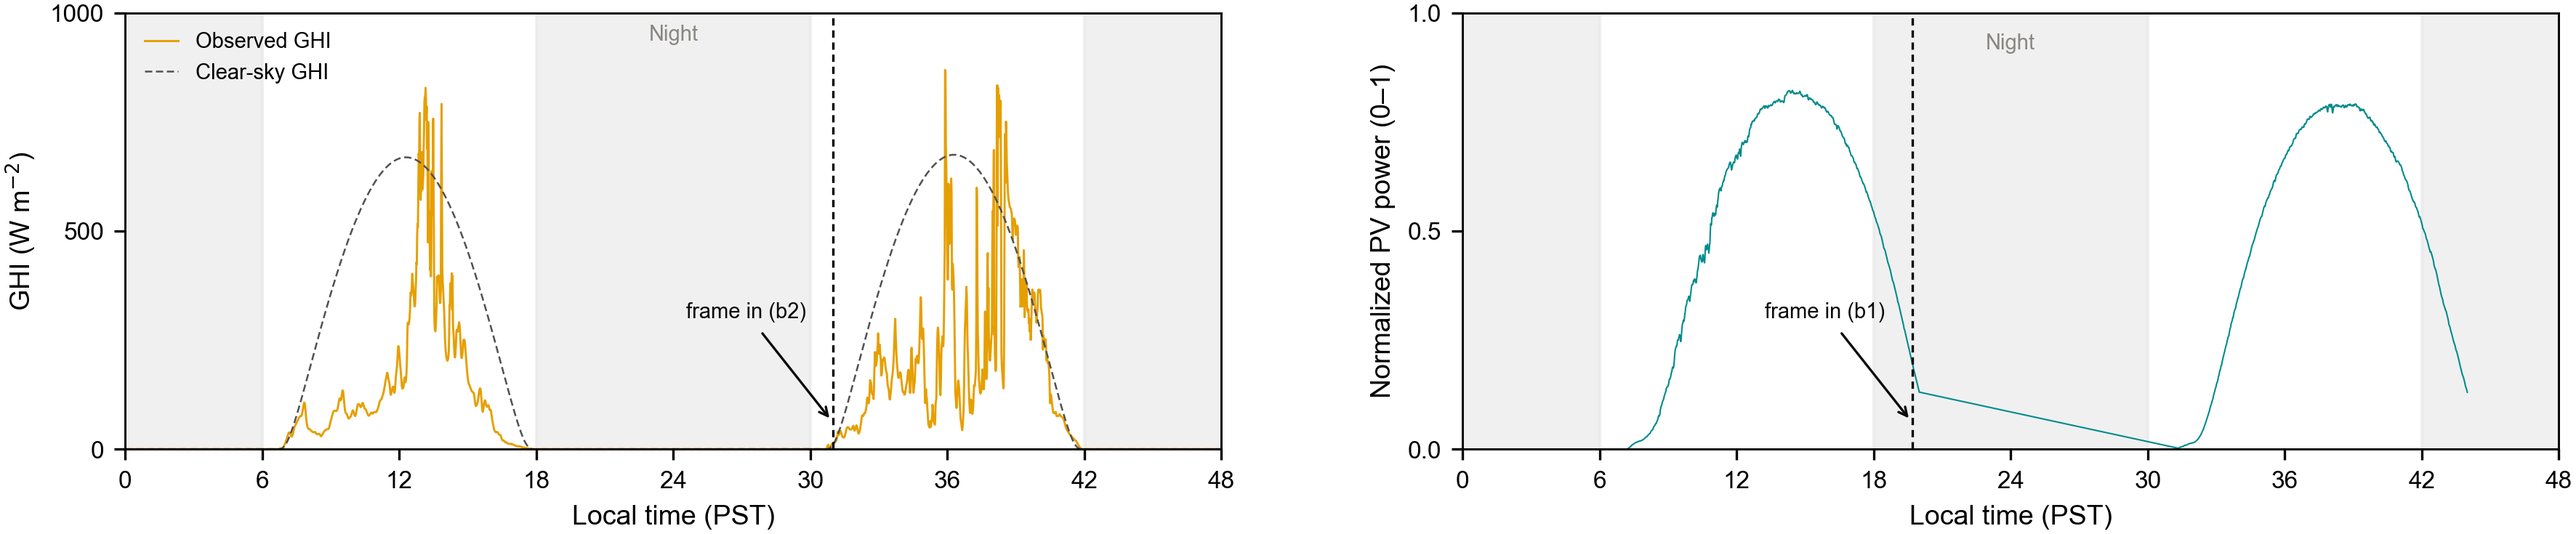
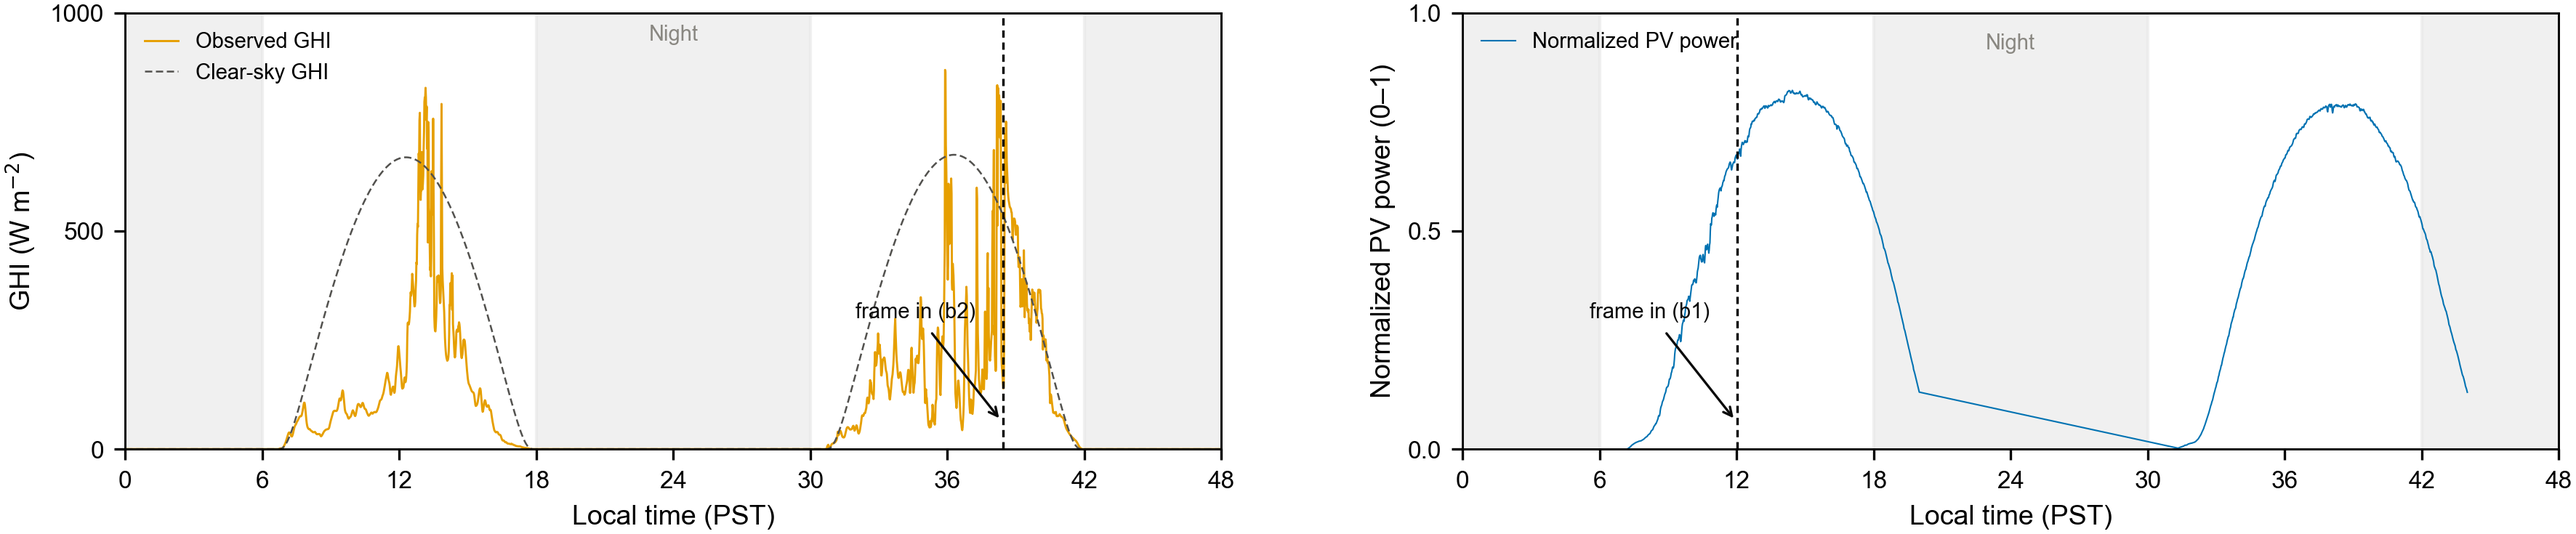
viz(essd): fig01 (c) marker corrections — c1 arrow at the true day-2 GHI crash h=38.43 (811->150 W/m2, 2014-02-27 22:26 UTC); c2 arrow moved to a daylight PV trough h=12.03 (2018-06-10 19:01 UTC, outside night bands); c2 line house blue #0072B2 + upper-left legend
Co-Authd-By: Claude <noreply@anthropic.com>

diff --git a/scripts/export_fig01_panels.py b/scripts/export_fig01_panels.py
@@ -122,7 +122,7 @@ axc1.plot(fxh, fw["ghi_actual"].to_numpy(), color=V.DS_COLORS["folsom"],
           lw=0.7, label="Observed GHI")
 axc1.plot(fxh, fw["ghi_clearsky"].to_numpy(), color=V.INK_2, lw=0.6,
           ls=(0, (4, 2)), label="Clear-sky GHI")
-_frame_marker(axc1, 31.0, "frame in (b2)")
+_frame_marker(axc1, 38.43, "frame in (b2)")
 axc1.set_ylabel(r"GHI (W m$^{-2}$)")
 axc1.set_ylim(0, 1000); axc1.set_yticks([0, 500, 1000])
 axc1.set_xlim(0, 48); axc1.set_xticks(np.arange(0, 49, 6))
@@ -140,11 +140,12 @@ _night(axc2)
 axc2.text(24, 0.93, "Night", ha="center", va="center", fontsize=7,
           color=V.INK_MUTED)
 axc2.plot(sxh, sw["pv_power_normalized"].astype(float).to_numpy(),
-          color=TEAL, lw=0.5, label="Normalized PV power")
-_frame_marker(axc2, 19.7, "frame in (b1)")
+          color="#0072B2", lw=0.5, label="Normalized PV power")
+_frame_marker(axc2, 12.03, "frame in (b1)")
 axc2.set_ylabel("Normalized PV power (0–1)")
 axc2.set_ylim(0, 1); axc2.set_yticks([0, 0.5, 1.0])
 axc2.set_xlabel("Local time (PST)")
+axc2.legend(loc="upper left", frameon=False, fontsize=7, handlelength=1.6)
 
 fig.subplots_adjust(wspace=0.22, left=0.06, right=0.99, top=0.97,
                     bottom=0.20)
